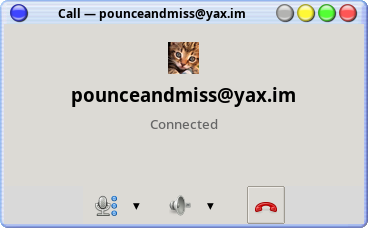
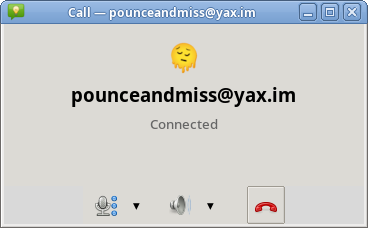
Update screenshots

Changed region(s): [[0.0, 0.0, 1.0, 1.0], [0.4484, 0.1842, 0.538, 0.3377], [0.4484, 0.8596, 0.538, 0.9211]]

diff --git a/README.md b/README.md
@@ -4,8 +4,7 @@ A desktop XMPP chat client built with Tcl/Tk. Pre-alpha.
 
 ## Screenshots
 
-![Multi-window chat](doc/screenshots/multiwindow.png)
-![XML Console](doc/screenshots/xmlconsole.png)
+![Main window](doc/screenshots/main.png)
 ![Call](doc/screenshots/call.png)
 
 